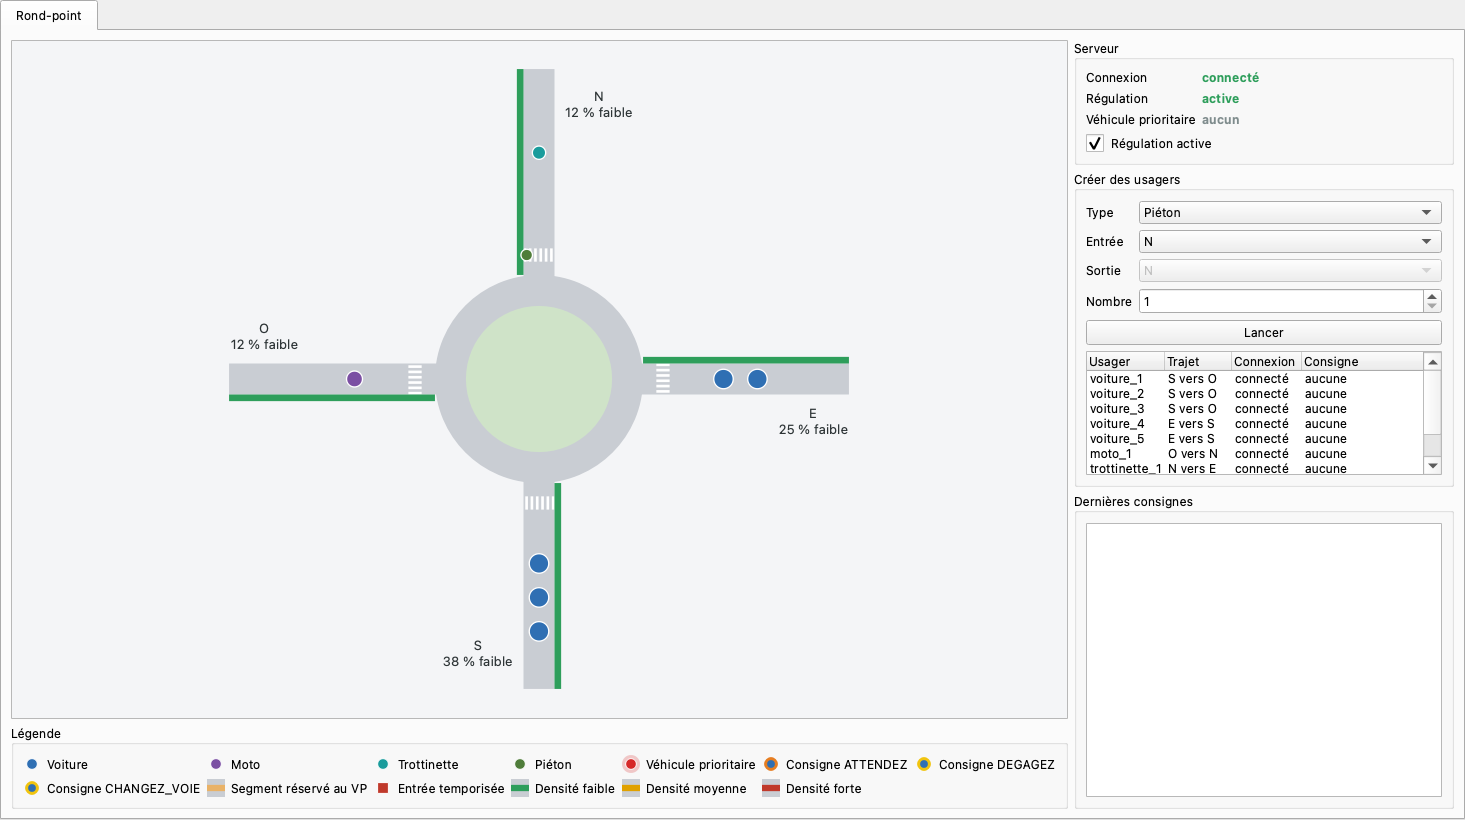
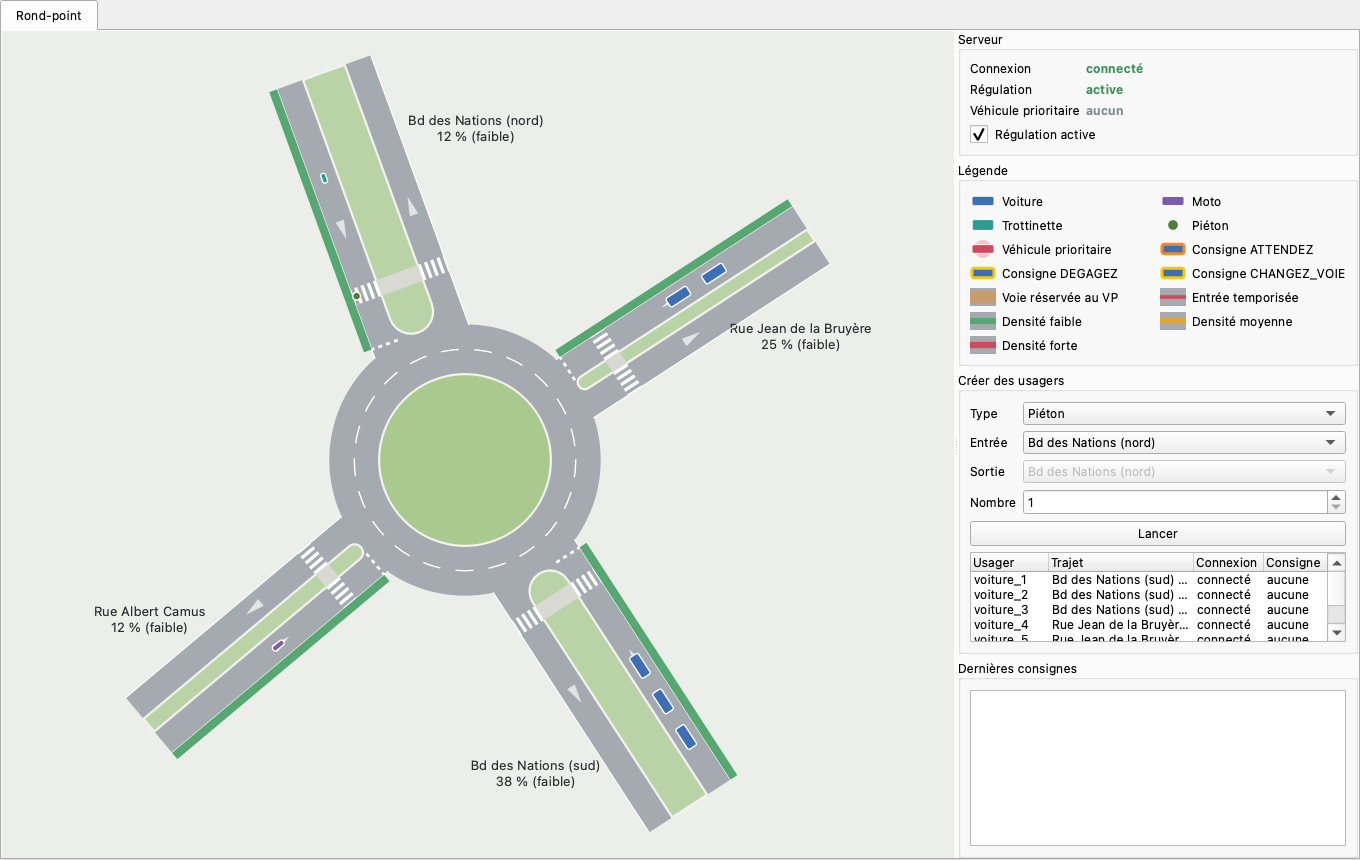
docs(readme): rond-point de Bel Air et captures régénérées

diff --git a/README.md b/README.md
@@ -2,7 +2,7 @@
 
 Projet de la SAÉ 3.02 « Développer une application communicante » (BUT R&T, IUT de Colmar).
 
-Maquette logicielle du rond-point sans feux situé vers l'arrêt Bel Air, à Mulhouse. Tous les usagers (voitures, motos, trottinettes, piétons et véhicules prioritaires) sont connectés à un serveur qui représente le rond-point. Le but est de faire traverser un véhicule prioritaire le plus vite et le plus sûrement possible, en demandant aux autres usagers de lui laisser le passage.
+Maquette logicielle du rond-point sans feux situé vers l'arrêt Bel Air, à Mulhouse (rond-point André Marie Talvas). Tous les usagers (voitures, motos, trottinettes, piétons et véhicules prioritaires) sont connectés à un serveur qui représente le rond-point. Le but est de faire traverser un véhicule prioritaire le plus vite et le plus sûrement possible, en demandant aux autres usagers de lui laisser le passage.
 
 L'application se découpe en trois parties :
 
@@ -32,6 +32,8 @@ cp config.exemple.ini config.ini   # sous Windows : copy config.exemple.ini conf
 
 `config.ini` n'est pas versionné : il contient la clé HMAC partagée et les identifiants de la base. Les valeurs d'exemple sont à remplacer.
 
+La configuration d'exemple décrit le rond-point de Bel Air : quatre branches en double chaussée (le boulevard des Nations, côté nord et côté sud, la rue Jean de la Bruyère et la rue Albert Camus), chacune dans sa section `[branche.<identifiant>]` avec son nom de rue, son cap, la largeur de son terre-plein et la position de son passage piéton, et un anneau à deux voies. Les mesures et les choix de modélisation sont dans [docs/geometrie_bel_air.md](docs/geometrie_bel_air.md).
+
 ## Lancer le serveur
 
 ```bash
@@ -50,27 +52,28 @@ python scripts/lancer_supervision.py                  # lit config.ini à la rac
 python scripts/lancer_supervision.py autre_config.ini
 ```
 
-La fenêtre peut être ouverte avant le serveur : elle s'y connecte dès qu'il répond, et s'y reconnecte s'il redémarre. Elle montre :
+La fenêtre s'ouvre en plein écran et peut être lancée avant le serveur : elle s'y connecte dès qu'il répond, et s'y reconnecte s'il redémarre. Elle montre :
 
-- le rond-point en 2D, dessiné d'après `config.ini`. Chaque usager est un disque coloré selon sa catégorie et cerclé selon la consigne qu'il suit ; le véhicule prioritaire est plus gros et entouré d'un halo ;
-- en orange, les segments de l'anneau réservés au véhicule prioritaire, et un carré rouge au bord de chaque entrée temporisée ;
-- la densité de chaque branche, écrite en pourcentage et rendue par la couleur de la bande le long de la voie d'entrée : vert pour faible, jaune pour moyenne, rouge pour forte ;
+- le rond-point en 2D, dessiné d'après `config.ini` : les deux chaussées de chaque branche et leur terre-plein, les deux voies de l'anneau, les passages piétons et le nom de chaque rue. La scène suit la taille de la fenêtre, et un séparateur permet de l'élargir ;
+- chaque usager à son gabarit, tourné dans son sens de marche, coloré selon sa catégorie et cerclé selon la consigne qu'il suit ; le véhicule prioritaire a un halo. Avec DEGAGEZ, on voit un usager passer de la voie intérieure à la voie extérieure ; avec CHANGEZ_VOIE, il se range sur le bord de sa chaussée ;
+- en orange, la voie intérieure des segments réservés au véhicule prioritaire, et une barre rouge sur la ligne de chaque entrée temporisée, avec un feu à côté ;
+- la densité de chaque branche, écrite en pourcentage sous le nom de la rue et rendue par la couleur de la bande le long de la chaussée d'entrée : vert pour faible, jaune pour moyenne, rouge pour forte ;
 - l'état de la connexion, la régulation en vigueur sur le serveur et la présence d'un véhicule prioritaire ;
 - l'interrupteur « Régulation active », qui active ou coupe la régulation sur le serveur ;
-- le panneau de création : on choisit le type d'usager, l'entrée, la sortie (imposée pour un piéton) et le nombre, puis « Lancer » démarre un client par usager, qui se connecte au serveur comme n'importe quel autre ;
+- le panneau de création : on choisit le type d'usager, la rue d'entrée, la rue de sortie (imposée pour un piéton) et le nombre, puis « Lancer » démarre un client par usager, qui se connecte au serveur comme n'importe quel autre ;
 - les dernières consignes reçues par ces usagers.
 
 Fermer la fenêtre, ou faire Ctrl+C dans la console, arrête les clients lancés depuis la fenêtre et la connexion au serveur.
 
 ### Captures
 
-Les trois captures montrent le même trafic : trois voitures en file au sud, deux à l'est, une moto à l'ouest, une trottinette et un piéton au nord. Le véhicule prioritaire part ensuite du sud vers le nord, et les deux dernières captures sont prises 6 s après son départ.
+Les trois captures montrent le même trafic : trois voitures en file sur le boulevard des Nations côté sud, deux rue Jean de la Bruyère, une moto rue Albert Camus, une trottinette et un piéton sur le boulevard des Nations côté nord. Le véhicule prioritaire traverse ensuite le boulevard, du sud vers le nord, et les deux dernières captures sont prises 8 s après son départ.
 
 Avant l'arrivée du véhicule prioritaire :
 
 ![Rond-point avant l'arrivée du véhicule prioritaire](docs/captures/repos.png)
 
-Avec régulation, les voitures déjà sur l'anneau s'écartent, les entrées qui croisent la trajectoire du véhicule prioritaire sont temporisées, et il roule déjà sur l'anneau :
+Avec régulation, les voitures déjà sur l'anneau passent sur la voie extérieure, les entrées qui croisent la trajectoire du véhicule prioritaire sont temporisées, et il roule déjà sur la voie intérieure :
 
 ![Véhicule prioritaire avec régulation](docs/captures/vp_avec_regulation.png)
 
@@ -83,7 +86,7 @@ Sans régulation, il attend encore sur sa branche d'entrée, derrière la file :
 ## Tests
 
 ```bash
-python -m pytest                  # tous les tests, environ 40 s
+python -m pytest                  # tous les tests, environ 55 s
 python -m pytest -m "not lent"    # sans le test de bout en bout, qui joue deux traversées en temps réel
 ```
 
